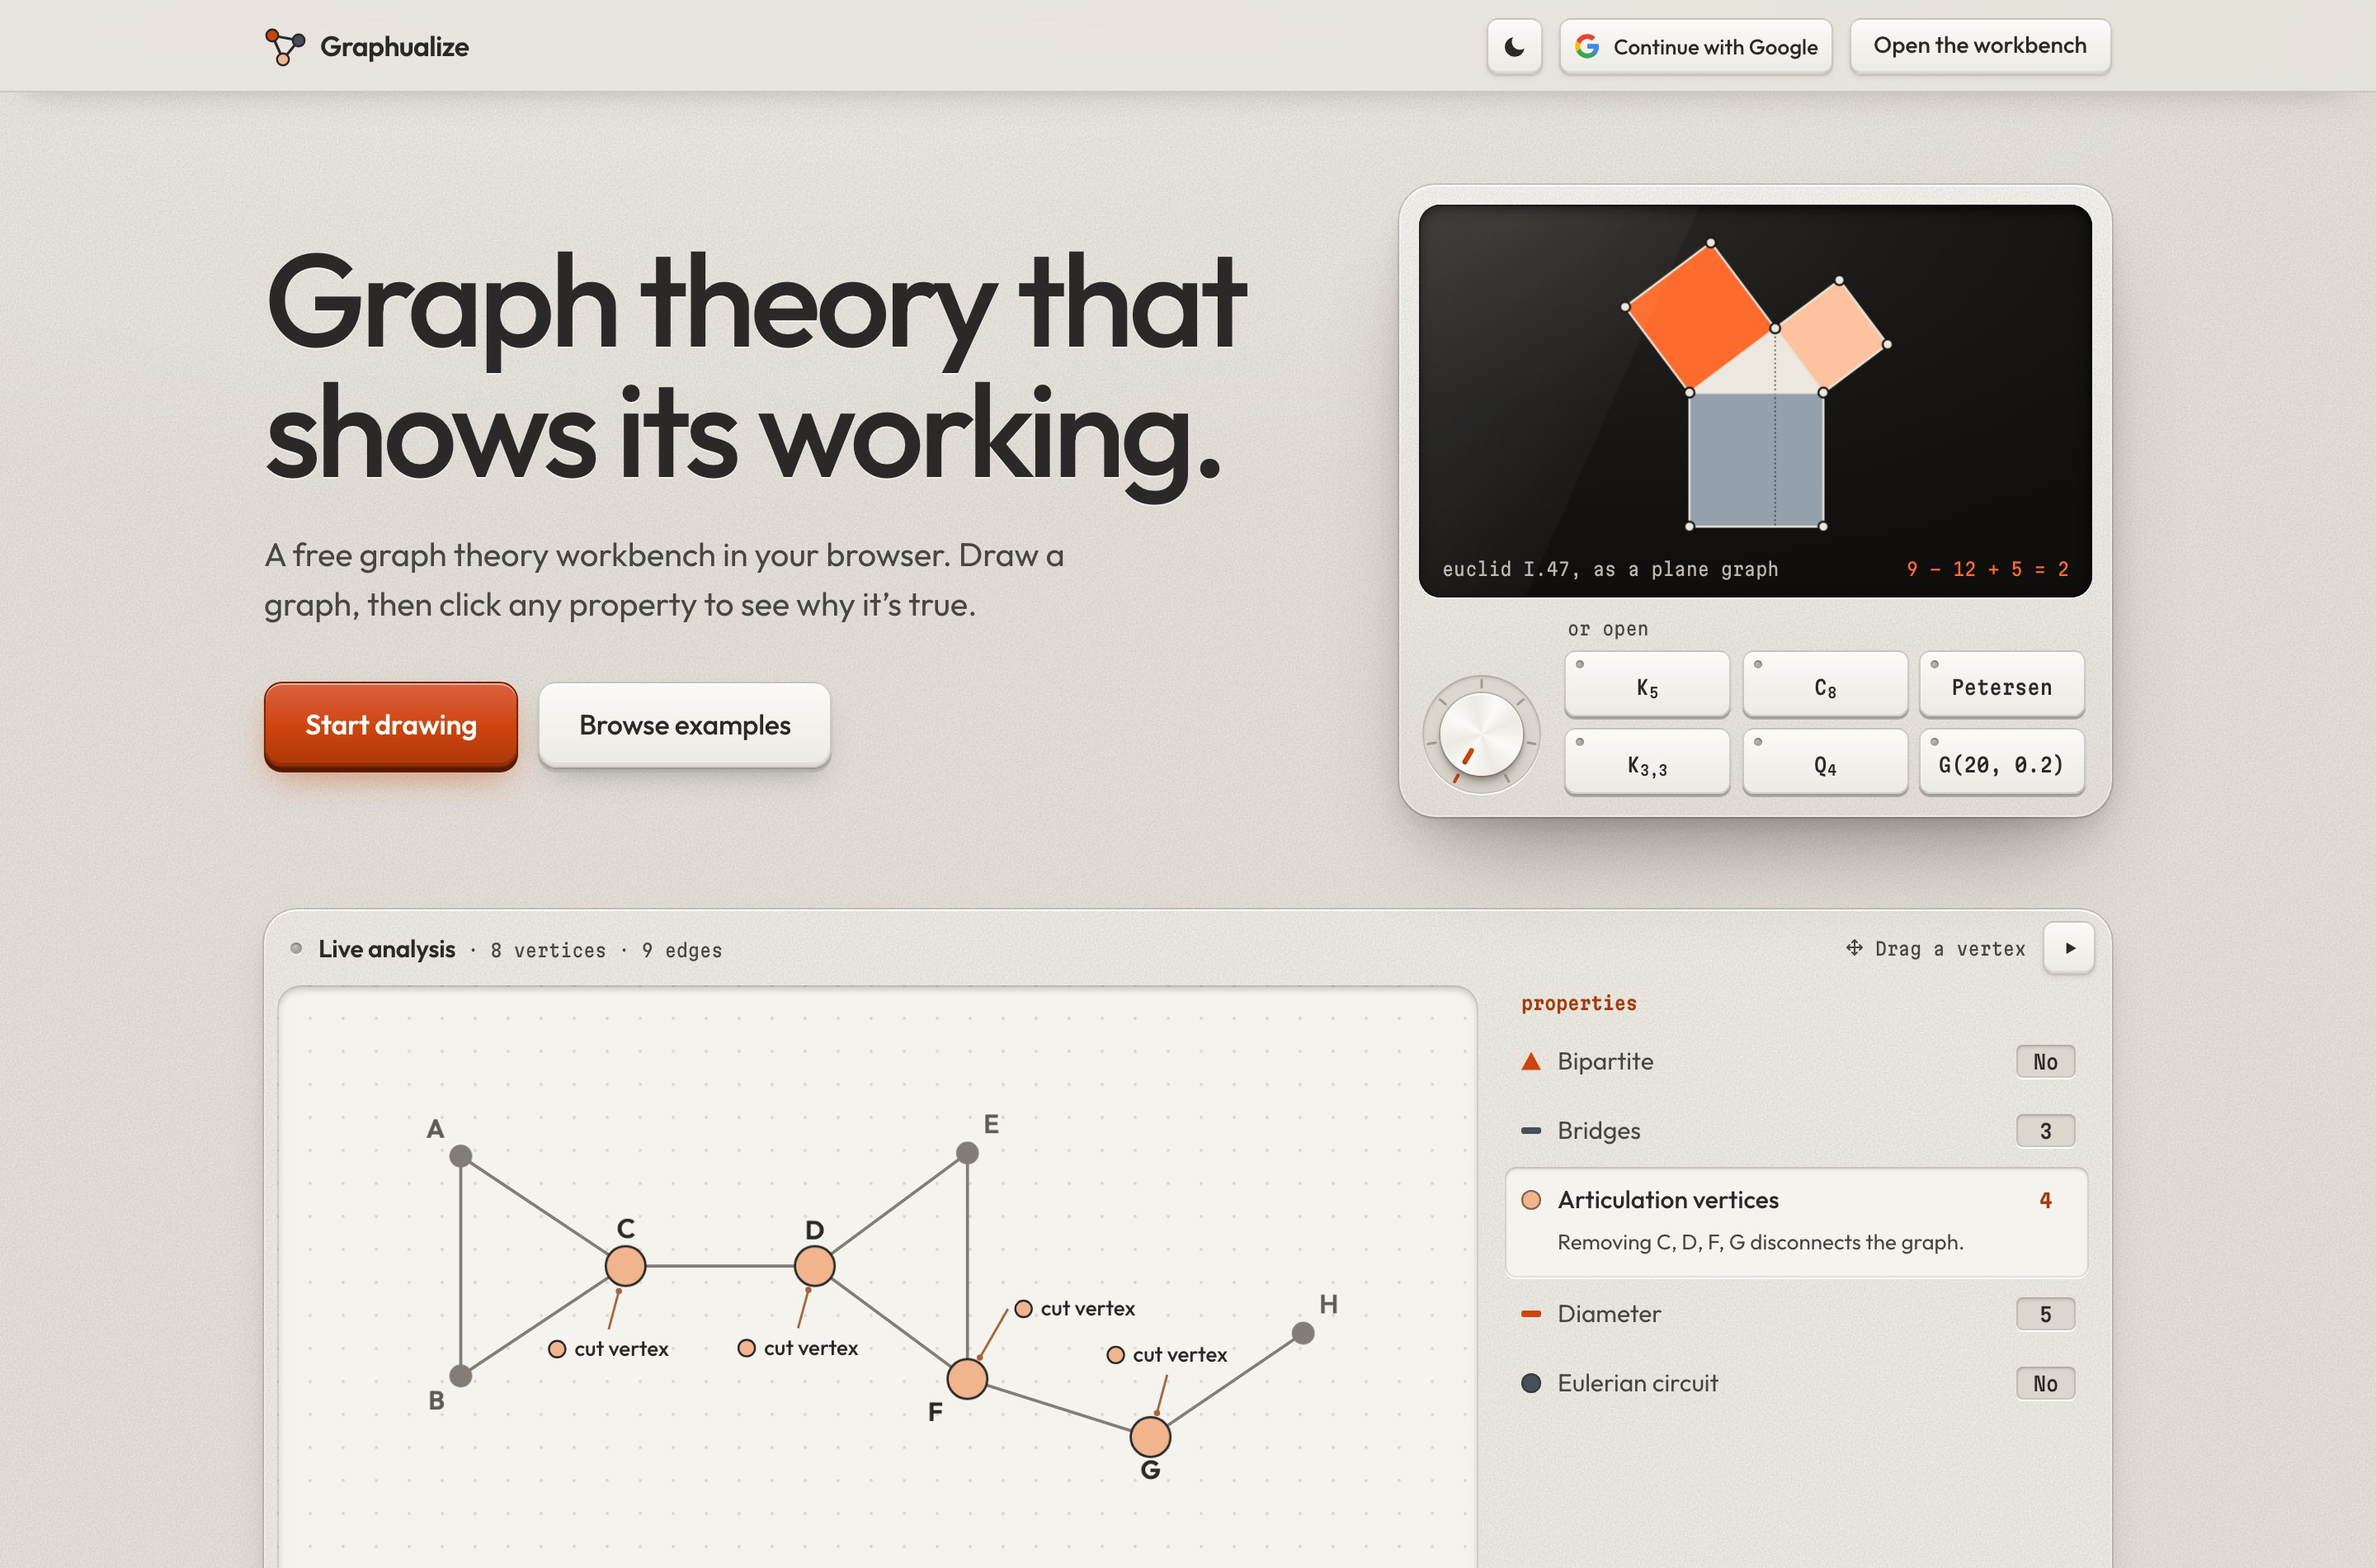
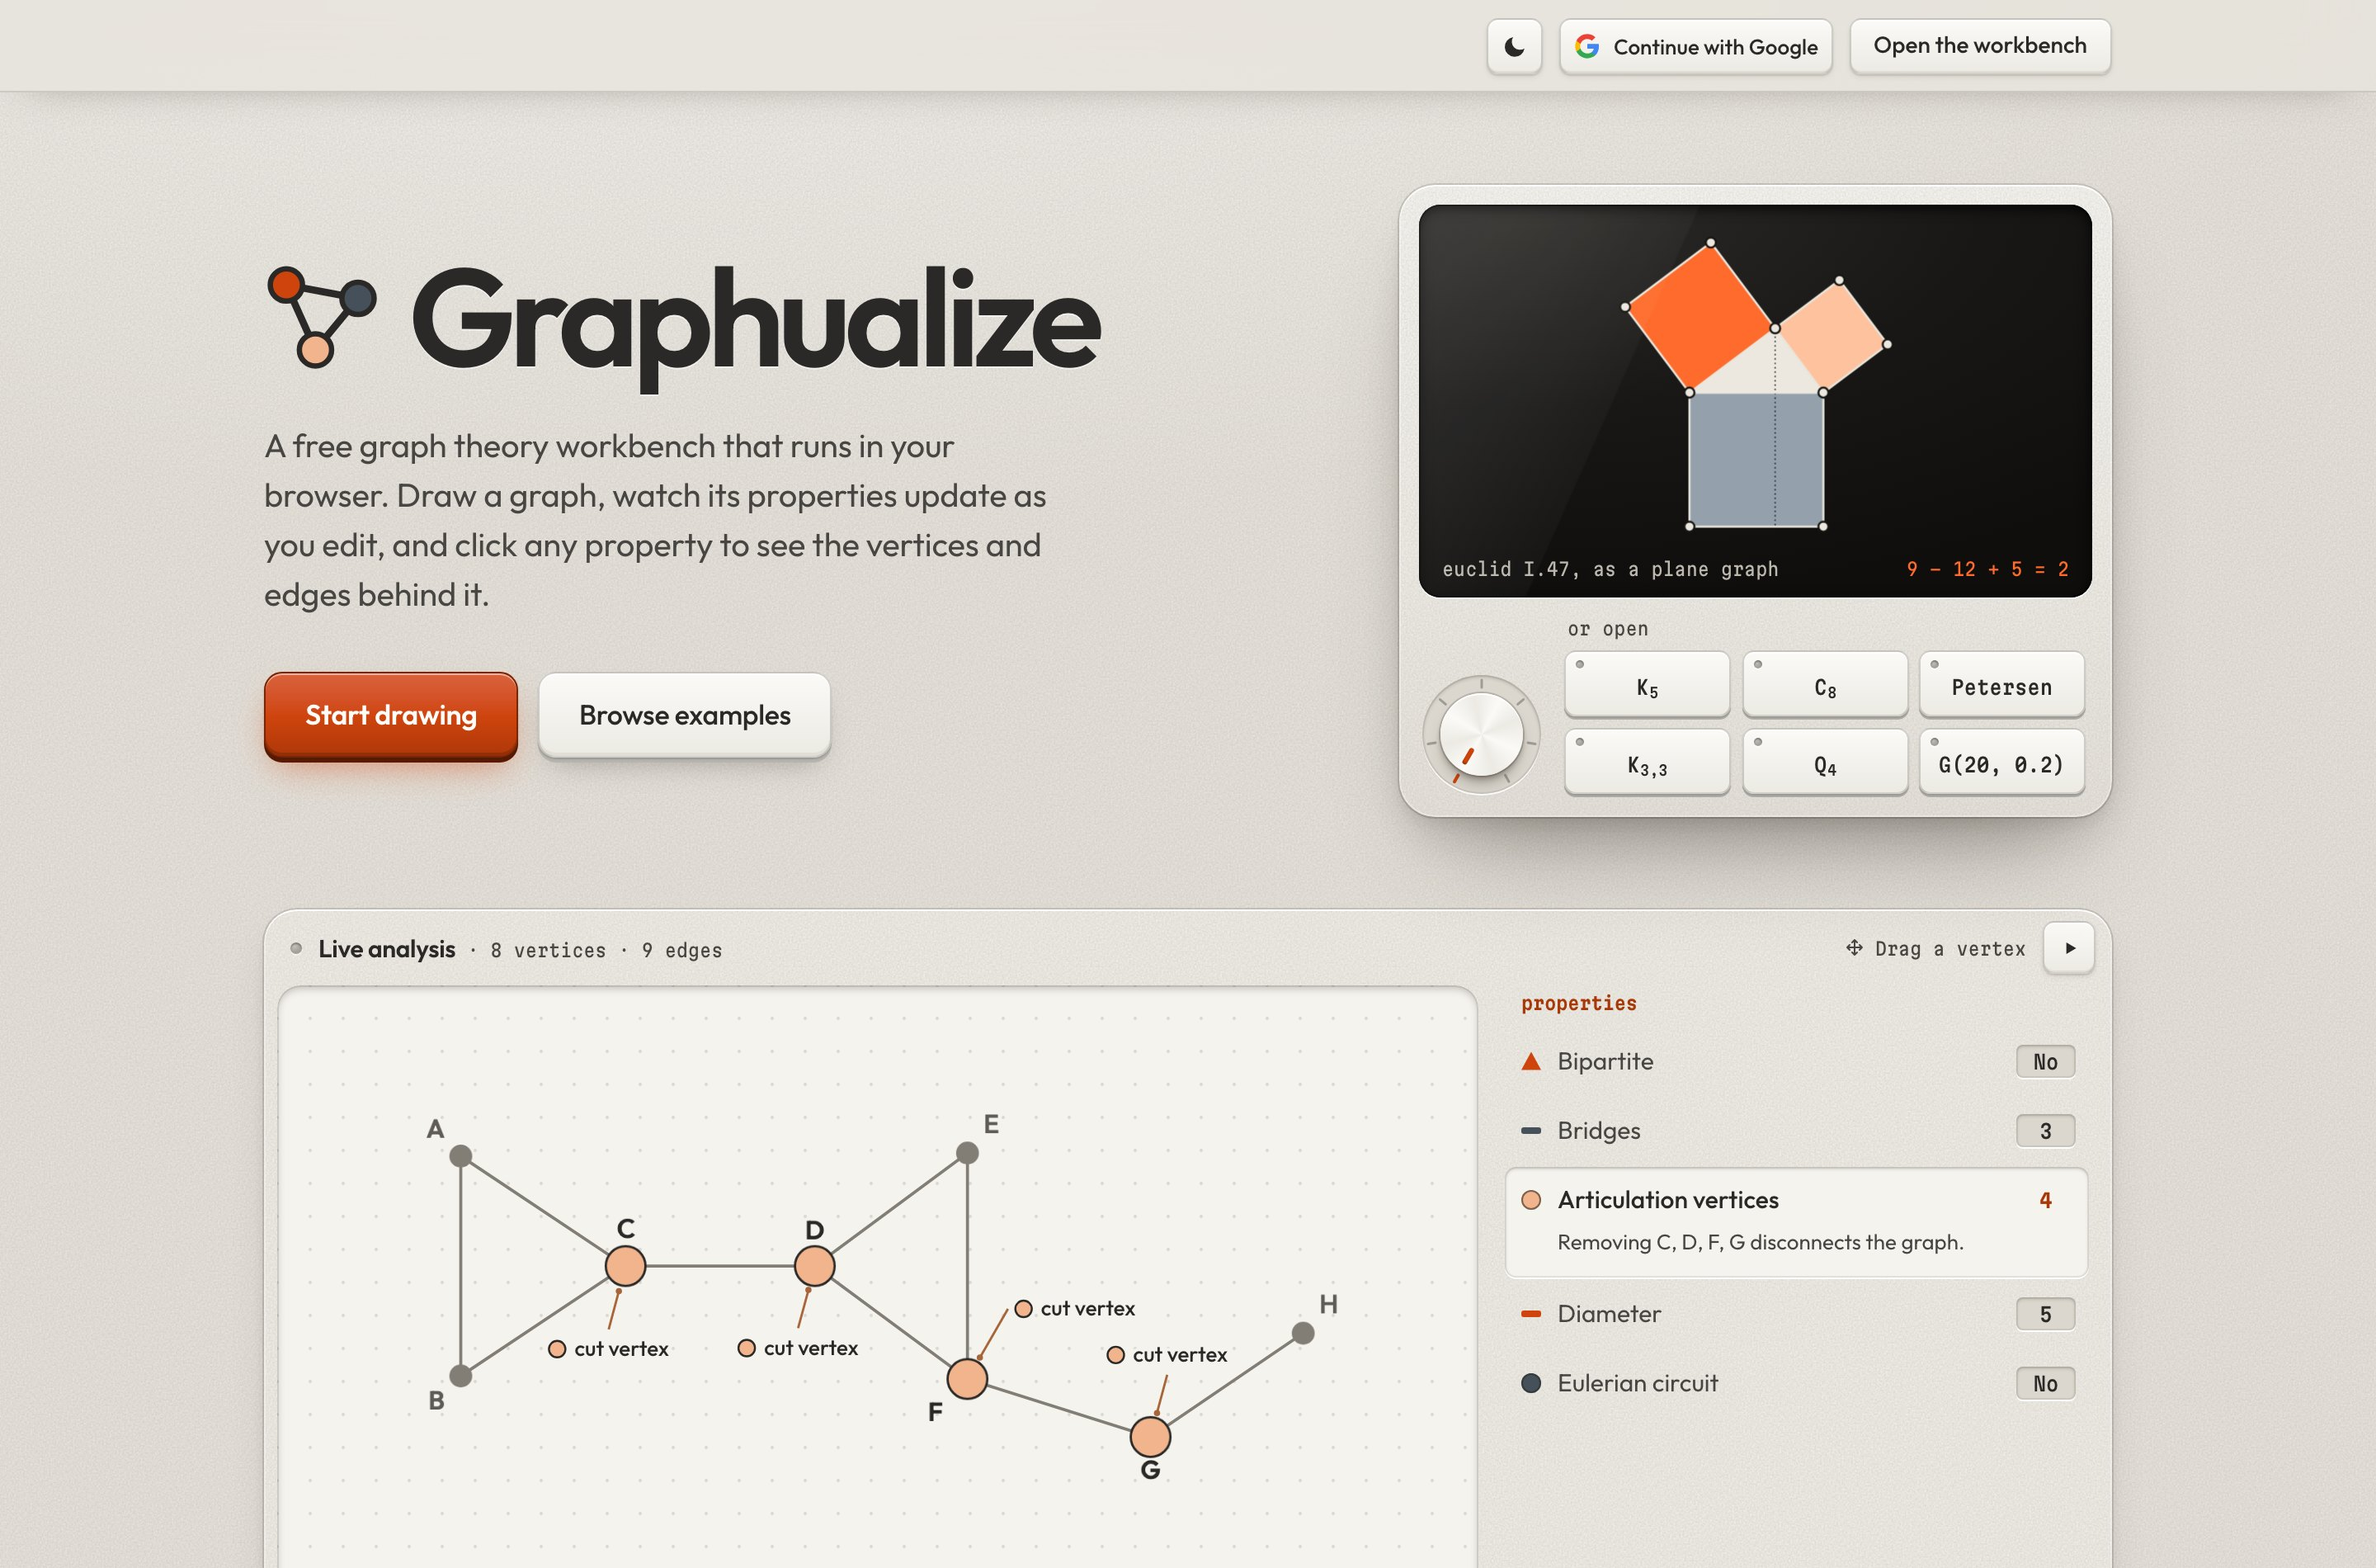
Plain copy on the home page: the name as the title, Features, Examples
The hero's title is now the mark and the name instead of a slogan, and the
head tucks its own copy of them away while the title is on screen. The
section headings are Features and Examples, the feature rows are named for
what they are and say what they do, and the footer and README drop the
tagline.

Changed region(s): [[0.0938, 0.1553, 0.5312, 0.4968], [0.125, 0.0, 0.1875, 0.0621]]

diff --git a/src/home/HomePage.tsx b/src/home/HomePage.tsx
@@ -1,4 +1,4 @@
-import type { CSSProperties } from 'react'
+import { useEffect, useRef, useState, type CSSProperties } from 'react'
 import { useEditor } from '../state/store'
 import { useTheme } from '../hooks/useTheme'
 import { openEditor } from '../app/router'
@@ -55,8 +55,8 @@ const scrollToExamples = () => {
 }
 
 /**
- * The front door, laid out like the instrument it opens: the proposition and
- * its two keys beside a small quick-start unit, then the live demo as a panel
+ * The front door, laid out like the instrument it opens: the name and its
+ * two keys beside a small quick-start unit, then the live demo as a panel
  * of the real thing, what else the workbench does as a spec sheet, and the
  * examples as a tray of tiles. Every route into the product is one click, and
  * nothing here asks for an account.
@@ -67,11 +67,27 @@ export const HomePage = () => {
   const savedName = useEditor((s) => s.name)
   const hasSession = useEditor((s) => s.doc.vertices.length > 0)
 
+  // The hero's title is the name and the mark, so while it is on screen the
+  // head does not repeat them; they come up in the head once it scrolls away.
+  const titleRef = useRef<HTMLHeadingElement>(null)
+  const [titleInView, setTitleInView] = useState(false)
+  useEffect(() => {
+    const title = titleRef.current
+    if (!title || typeof IntersectionObserver === 'undefined') return
+    const observer = new IntersectionObserver(
+      ([entry]) => setTitleInView(entry?.isIntersecting ?? false),
+      // The sticky head covers the top of the page.
+      { rootMargin: '-56px 0px 0px 0px' },
+    )
+    observer.observe(title)
+    return () => observer.disconnect()
+  }, [])
+
   return (
     <div className="gz-home">
       <header className="gz-home-head sticky top-0 z-30">
         <div className="gz-home-wrap gz-home-head-row">
-          <span className="gz-home-brand">
+          <span className="gz-home-brand" data-tucked={titleInView || undefined}>
             <BrandMark />
             <span>Graphualize</span>
           </span>
@@ -102,16 +118,18 @@ export const HomePage = () => {
       </header>
 
       <main>
-        {/* The proposition beside the quick-start unit, set so that the live
-            demo rises into the first screen. */}
+        {/* The name beside the quick-start unit, set so that the live demo
+            rises into the first screen. */}
         <section className="gz-home-wrap gz-home-hero">
           <div className="gz-home-hero-copy">
-            <h1 className="gz-home-title gz-home-rise" style={rise(0)}>
-              Graph theory that shows its working.
+            <h1 ref={titleRef} className="gz-home-title gz-home-rise" style={rise(0)}>
+              <BrandMark />
+              Graphualize
             </h1>
             <p className="gz-home-lede gz-home-rise" style={rise(70)}>
-              A free graph theory workbench in your browser. Draw a{' '}graph, then click any
-              property to see why it’s true.
+              A free graph theory workbench that runs in your browser. Draw a graph, watch its
+              properties update as you edit, and click any property to see the vertices and
+              edges behind it.
             </p>
 
             <div className="gz-home-actions gz-home-rise" style={rise(140)}>
@@ -142,7 +160,7 @@ export const HomePage = () => {
         <section aria-labelledby="home-features" className="gz-home-wrap gz-home-section gz-home-features">
           <div className="gz-home-section-head">
             <h2 id="home-features" className="gz-home-h2">
-              Everything a graph theory course asks for.
+              Features
             </h2>
           </div>
           <FeatureGrid />
@@ -156,7 +174,7 @@ export const HomePage = () => {
           <div className="gz-home-section-head">
             {/* Focusable from script only, so "Browse examples" can take focus here. */}
             <h2 id="home-examples" tabIndex={-1} className="gz-home-h2">
-              Start from a classic.
+              Examples
             </h2>
           </div>
           <ExampleGallery />
@@ -167,7 +185,6 @@ export const HomePage = () => {
         <div className="gz-home-wrap">
           <BrandMark size={22} />
           <p className="gz-home-colophon-name">Graphualize</p>
-          <p className="gz-home-colophon-line">Draw graphs. Understand them.</p>
           <p className="gz-home-colophon-small">Built with React, TypeScript and Cytoscape.js</p>
         </div>
       </footer>

diff --git a/src/home/FeatureGrid.tsx b/src/home/FeatureGrid.tsx
@@ -11,7 +11,8 @@ import { EDGE_INKS, edgeInks } from './byrne'
  */
 
 /* A word joiner after the en dash keeps 'Bellman–Ford' from breaking at it. */
-const ALGORITHMS = 'BFS, DFS, Dijkstra, Bellman–Ford, Prim, Kruskal, topological sort, colouring.'
+const ALGORITHMS =
+  'Step through BFS, DFS, Dijkstra, Bellman–Ford, Prim, Kruskal, topological sort and greedy colouring, forwards or backwards.'
 
 const Figure = ({ children, name }: { children: ReactNode; name?: string }) => (
   <svg viewBox="0 0 120 80" className="gz-home-def-svg" data-fig={name} aria-hidden="true" focusable="false">
@@ -165,25 +166,25 @@ const LocalFigure = () => (
 )
 
 const DEFINITIONS: { title: string; line: ReactNode; figure: ReactNode }[] = [
-  { title: 'Step through algorithms', line: ALGORITHMS, figure: <BfsFigure /> },
+  { title: 'Algorithms', line: ALGORITHMS, figure: <BfsFigure /> },
   {
-    title: 'Honest about hard problems',
-    line: 'Exact within stated limits. Bounds, never guesses.',
+    title: 'Hard problems',
+    line: 'Chromatic number, maximum clique and Hamiltonian cycles are exact on small graphs. Past the limit you get bounds or “not computed”, not a guess.',
     figure: <BoundsFigure />,
   },
   {
-    title: 'Matrices and spectra',
-    line: <>Adjacency to Laplacian, copied as <span className="whitespace-nowrap">LaTeX</span>.</>,
+    title: 'Matrices',
+    line: 'Adjacency, degree, Laplacian, incidence and distance matrices, with eigenvalues. Copy any of them as LaTeX.',
     figure: <MatrixFigure />,
   },
   {
-    title: 'Export that stays sharp',
-    line: 'SVG, PNG, DOT, GraphML, CSV and JSON.',
+    title: 'Import and export',
+    line: 'SVG, PNG and TikZ for the drawing. JSON, CSV, DOT and GraphML for the data.',
     figure: <ExportFigure />,
   },
   {
-    title: 'Runs in your browser',
-    line: 'Nothing to install. No account needed.',
+    title: 'No install',
+    line: 'Runs in the browser with no account. Sign in only if you want your graphs saved across devices.',
     figure: <LocalFigure />,
   },
 ]

diff --git a/src/home/home.css b/src/home/home.css
@@ -117,6 +117,15 @@
     font-size: 1.0625rem;
     font-weight: 600;
     letter-spacing: -0.02em;
+    transition:
+      opacity 200ms var(--gz-snap),
+      transform 320ms var(--gz-spring-big);
+  }
+
+  /* While the hero's title is on screen the head does not repeat it. */
+  .gz-home-brand[data-tucked] {
+    opacity: 0;
+    transform: translateY(0.375rem);
   }
 
   /* The narrowest phones: below 352px the wordmark gives way to the mark
@@ -243,11 +252,21 @@
     text-shadow: 0 -1px 0 rgb(0 0 0 / 0.45);
   }
 
+  /* The hero's title is the name with the mark beside it, the mark drawn at
+     the height of the letters. */
   .gz-home-title {
-    max-width: 11em;
-    font-size: clamp(2.625rem, 1.4rem + 4.6vw, 5rem);
-    line-height: 0.98;
-    letter-spacing: -0.04em;
+    display: flex;
+    align-items: center;
+    gap: 0.2em;
+    font-size: clamp(2.75rem, 1.4rem + 5.2vw, 5.25rem);
+    font-weight: 600;
+    line-height: 1;
+    letter-spacing: -0.05em;
+  }
+
+  .gz-home-title .gz-home-mark {
+    width: 0.84em;
+    height: 0.84em;
   }
 
   .gz-home-h2 {
@@ -1858,11 +1877,6 @@
     font-size: 1rem;
     font-weight: 600;
     letter-spacing: -0.02em;
-  }
-
-  .gz-home-colophon-line {
-    color: var(--gz-muted);
-    font-size: 0.9375rem;
   }
 
   .gz-home-colophon-small {

diff --git a/e2e/home.spec.ts b/e2e/home.spec.ts
@@ -21,7 +21,7 @@ test.afterEach(async ({ page }) => {
 const demo = (page: Page) => page.getByRole('list', { name: 'Properties of the example graph' })
 
 test('the home page leads with the product and a live demo', async ({ page }) => {
-  await expect(page.getByRole('heading', { level: 1 })).toContainText('shows its working')
+  await expect(page.getByRole('heading', { level: 1 })).toContainText('Graphualize')
   // The demo is the real thing: its properties come from the analysis library.
   await expect(demo(page).getByRole('button', { name: /Bipartite/ })).toContainText('No')
   await expect(demo(page).getByText(/is a cycle of odd length 3/).first()).toBeVisible()
@@ -47,7 +47,7 @@ test('the tour can be paused, and stays paused once the pointer has gone', async
 
 test('browsing the examples scrolls to them without changing the route', async ({ page }) => {
   await page.getByRole('button', { name: 'Browse examples' }).click()
-  await expect(page.getByRole('heading', { name: 'Start from a classic.' })).toBeInViewport()
+  await expect(page.getByRole('heading', { name: 'Examples' })).toBeInViewport()
   expect(new URL(page.url()).hash).not.toContain('examples')
 })
 

diff --git a/src/home/home.test.tsx b/src/home/home.test.tsx
@@ -125,7 +125,7 @@ describe('HomePage', () => {
   it('leads with the product, not a sign-up', () => {
     render(<HomePage />)
     expect(
-      screen.getByRole('heading', { name: /shows its working/i, level: 1 }),
+      screen.getByRole('heading', { name: 'Graphualize', level: 1 }),
     ).toBeInTheDocument()
     expect(screen.getByTestId('hero-demo')).toBeInTheDocument()
     expect(screen.queryByText(/sign up|pricing|free trial/i)).not.toBeInTheDocument()
@@ -213,7 +213,7 @@ describe('HomePage', () => {
     try {
       render(<HomePage />)
       await user.click(screen.getByRole('button', { name: 'Browse examples' }))
-      const heading = screen.getByRole('heading', { name: 'Start from a classic.' })
+      const heading = screen.getByRole('heading', { name: 'Examples' })
       expect(heading).toHaveFocus()
       // Focus must not scroll as well, or it would cut the smooth scroll short.
       expect(focus.mock.contexts.at(-1)).toBe(heading)

diff --git a/index.html b/index.html
@@ -11,8 +11,8 @@
     <meta name="theme-color" content="#e8e5de" media="(prefers-color-scheme: light)" />
     <meta name="theme-color" content="#2b2a28" media="(prefers-color-scheme: dark)" />
     <meta property="og:title" content="Graphualize" />
-    <meta property="og:description" content="Draw graphs. Understand them." />
-    <title>Graphualize - Draw graphs. Understand them.</title>
+    <meta property="og:description" content="An interactive graph theory workbench that runs in the browser." />
+    <title>Graphualize: a graph theory workbench</title>
     <link rel="preconnect" href="https://fonts.googleapis.com" />
     <link rel="preconnect" href="https://fonts.gstatic.com" crossorigin />
     <link

diff --git a/README.md b/README.md
@@ -1,7 +1,5 @@
 # Graphualize
 
-**Draw graphs. Understand them.**
-
 Graphualize is a workbench for graph theory. You draw a graph, its properties
 update as you type, and clicking any property draws the mathematical reason on
 the graph itself: the odd cycle that stops it being bipartite, the two vertices
